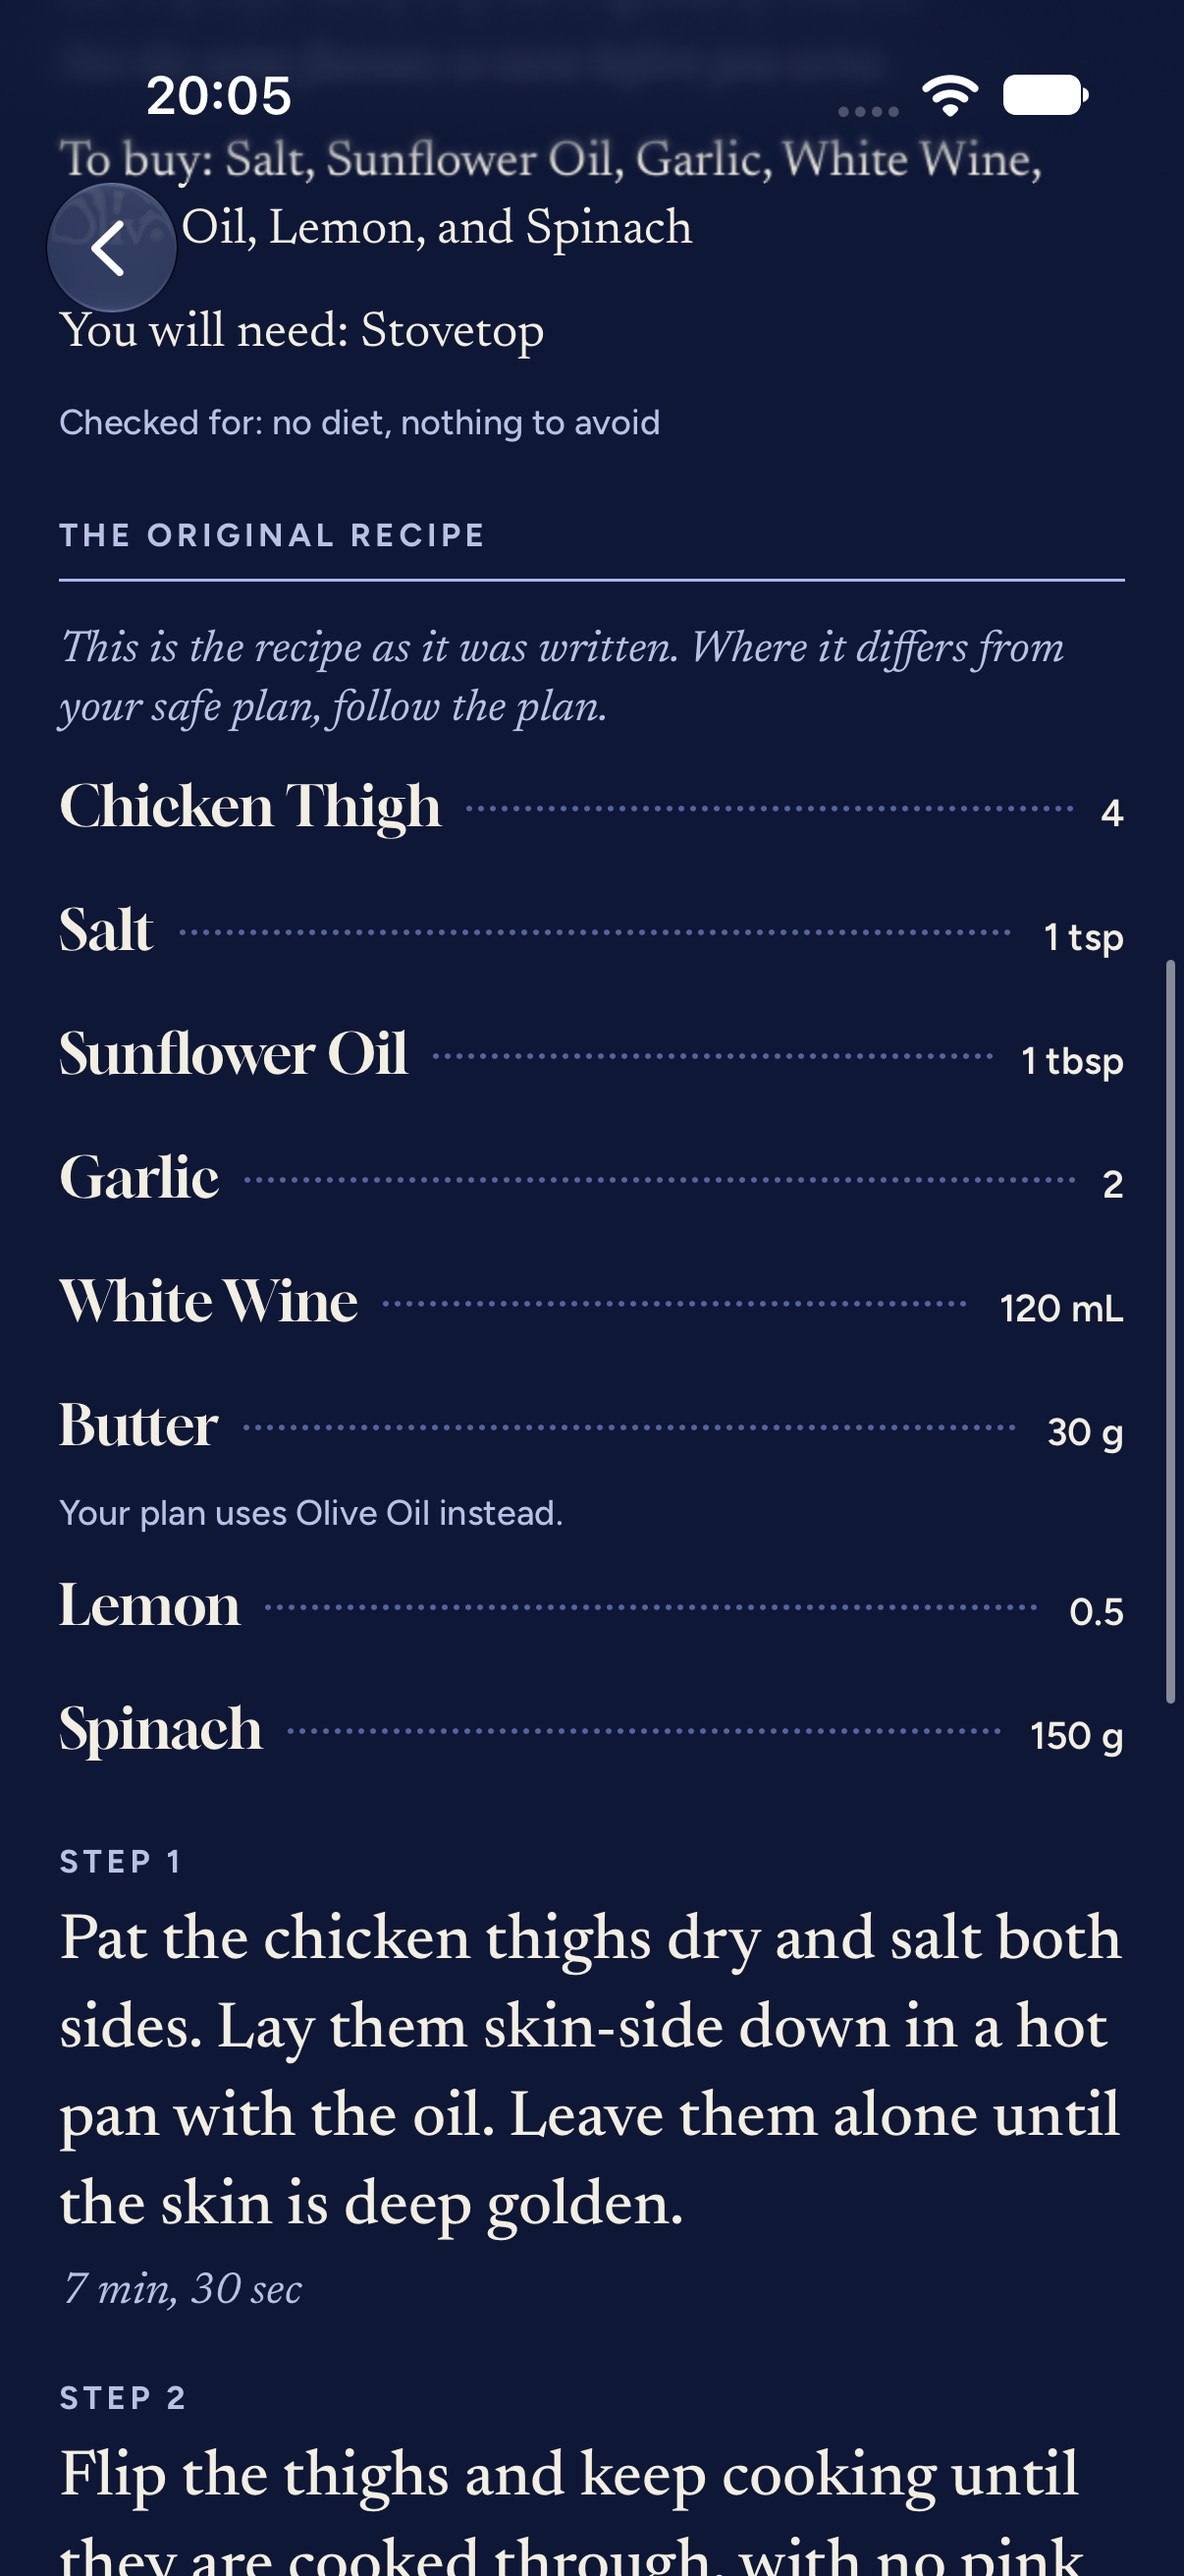
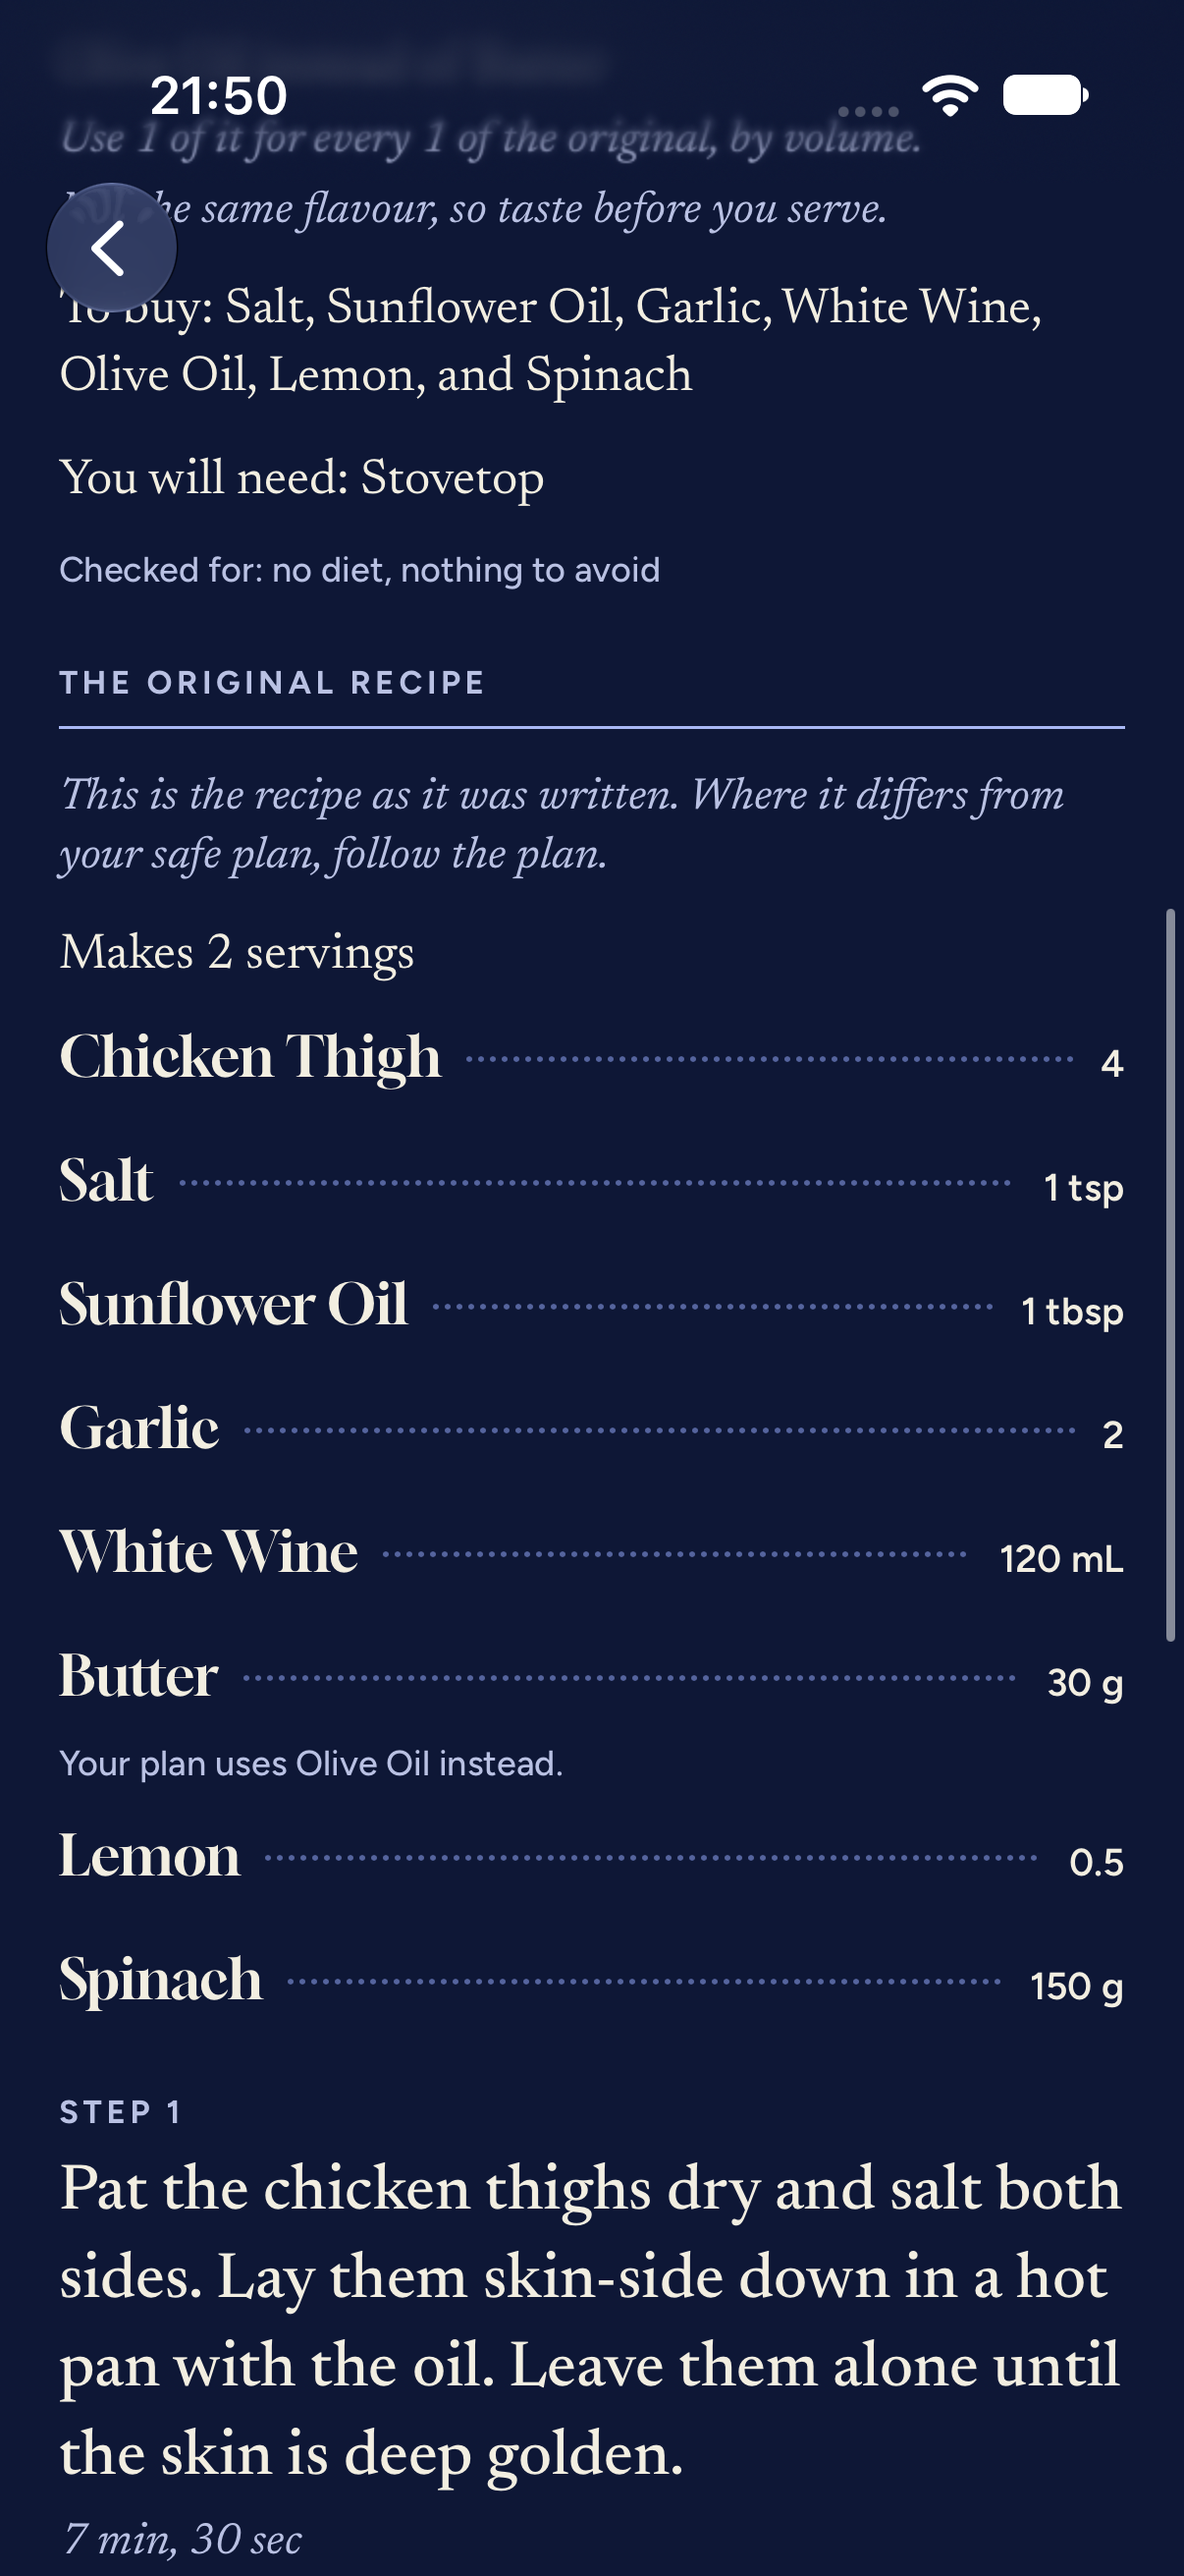
Reject malformed recipe fields, key swaps uniquely and show the yield (#135)
A present but malformed amount, step time or yield now makes the offer
unreadable so it is dropped. Substitution rows are keyed by the removed
and added pair, so two swaps for one stand-in both show. The original
recipe states how much it makes.

diff --git a/Packages/TomiCore/Tests/TomiCoreTests/Server/OfferMalformedTests.swift b/Packages/TomiCore/Tests/TomiCoreTests/Server/OfferMalformedTests.swift
@@ -1,0 +1,54 @@
+import Foundation
+import Testing
+
+@testable import TomiCore
+
+/// Only an absent field or an explicit null may be nil. A value that is there but wrong makes the offer unreadable.
+@Suite struct OfferMalformedTests {
+    func offer(replacing old: String, with new: String) -> String {
+        GraphJSON.offer().replacing(old, with: new)
+    }
+
+    @Test(arguments: [
+        (#""amount": {"unit": "piece", "value": 5}"#, #""amount": {"unit": "piece", "value": "five"}"#),
+        (#""amount": {"unit": "piece", "value": 5}"#, #""amount": 5"#),
+        (#"{"from": 4, "to": 6, "unit": "minute"}"#, #"{"from": "four", "to": 6, "unit": "minute"}"#),
+        (#"{"from": 4, "to": 6, "unit": "minute"}"#, #""soon""#),
+        (#""yields": {"unit": "serving", "value": 2}"#, #""yields": "two""#),
+        (#""yields": {"unit": "serving", "value": 2}"#, #""yields": {"unit": "serving"}"#),
+    ])
+    func aPresentButMalformedFieldDropsTheOffer(_ pair: (String, String)) {
+        let broken = offer(replacing: pair.0, with: pair.1)
+        #expect(throws: DecodingError.self) {
+            try ServerJSON.decode(Offer.self, from: broken)
+        }
+    }
+
+    @Test func anExplicitNullIsRead() throws {
+        var text = offer(replacing: #""amount": {"unit": "piece", "value": 5}"#, with: #""amount": null"#)
+        text = text.replacing(#""yields": {"unit": "serving", "value": 2}"#, with: #""yields": null"#)
+        let source = try ServerJSON.decode(Offer.self, from: text).sourceRecipe
+        #expect(source.ingredients.first?.amount == nil)
+        #expect(source.yields == nil)
+    }
+
+    @Test func anAbsentFieldIsRead() throws {
+        let text = offer(replacing: #""yields": {"unit": "serving", "value": 2}, "#, with: "")
+        #expect(try ServerJSON.decode(Offer.self, from: text).sourceRecipe.yields == nil)
+    }
+
+    /// Two ingredients swapped for the same stand-in are two substitutions, each with its own identity.
+    @Test func twoSwapsForTheSameStandInStayTwoSubstitutions() {
+        let oil = NamedOption(id: "ingredient/oil", name: "Oil")
+        let butter = OfferSwap(removed: NamedOption(id: "ingredient/butter", name: "Butter"), added: oil)
+        let cream = OfferSwap(removed: NamedOption(id: "ingredient/cream", name: "Cream"), added: oil)
+        #expect(Set([butter, cream]).count == 2)
+        #expect(butter.id != cream.id)
+    }
+
+    @Test func aServingYieldIsAWholeNumberOfServings() {
+        #expect(SourceAmount(value: 2, unit: "serving").wholeServings == 2)
+        #expect(SourceAmount(value: 1.5, unit: "serving").wholeServings == nil)
+        #expect(SourceAmount(value: 2, unit: "gram").wholeServings == nil)
+    }
+}

diff --git a/Packages/TomiCore/Sources/TomiCore/Server/OfferSwap.swift b/Packages/TomiCore/Sources/TomiCore/Server/OfferSwap.swift
@@ -1,11 +1,16 @@
 /// A swap in an offer's safe plan: one ingredient of the source recipe out, another in.
-public struct OfferSwap: Hashable, Decodable, Sendable {
+public struct OfferSwap: Identifiable, Hashable, Decodable, Sendable {
     public let removed: NamedOption
     public let added: NamedOption
     /// How much of the new ingredient stands in for the old, or nil when the graph gives no ratio.
     public let ratio: SwapRatio?
     /// What the swap changes about the dish, in the cook's language, or nil when it changes nothing worth saying.
     public let caveat: String?
+
+    /// Each substitution is told apart by the ingredient it removes and the one it adds.
+    public var id: String {
+        removed.id.rawValue + ">" + added.id.rawValue
+    }
 
     public init(removed: NamedOption, added: NamedOption, ratio: SwapRatio? = nil, caveat: String? = nil) {
         self.removed = removed

diff --git a/Packages/TomiCore/Sources/TomiCore/Server/SourceAmount+Known.swift b/Packages/TomiCore/Sources/TomiCore/Server/SourceAmount+Known.swift
@@ -2,6 +2,7 @@ extension SourceAmount {
     /// The units the graph counts with that the lesson library does not have.
     enum GraphUnit: String {
         case clove
+        case serving
     }
 
     /// The amount as a lesson amount, or nil when its unit is not one the lesson units name.
@@ -15,6 +16,14 @@ extension SourceAmount {
     /// How many cloves, or nil when the amount is not a whole number of cloves.
     public var wholeCloves: Int? {
         guard GraphUnit(rawValue: unit) == .clove, value.rounded() == value, value > 0 else {
+            return nil
+        }
+        return Int(value)
+    }
+
+    /// How many servings, or nil when the amount is not a whole number of servings.
+    public var wholeServings: Int? {
+        guard GraphUnit(rawValue: unit) == .serving, value.rounded() == value, value > 0 else {
             return nil
         }
         return Int(value)

diff --git a/Tomi/Specials/SourceYieldLine.swift b/Tomi/Specials/SourceYieldLine.swift
@@ -1,0 +1,19 @@
+import SwiftUI
+import TomiCore
+
+/// How much the graph's recipe makes, so its amounts can be read: whole servings, or another amount.
+struct SourceYieldLine: View {
+    let yields: SourceAmount
+
+    var body: some View {
+        if let servings = yields.wholeServings {
+            Text(.offerSourceYieldServings(servings))
+                .textStyle(.body)
+                .accessibilityIdentifier("offer-source-yield")
+        } else if let amount = SourceAmountFormat.text(for: yields) {
+            Text(.offerSourceYieldAmount(amount))
+                .textStyle(.body)
+                .accessibilityIdentifier("offer-source-yield")
+        }
+    }
+}

diff --git a/Packages/TomiCore/Sources/TomiCore/Server/SourceRecipe.swift b/Packages/TomiCore/Sources/TomiCore/Server/SourceRecipe.swift
@@ -13,7 +13,7 @@ public struct SourceRecipe: Hashable, Decodable, Sendable {
         ingredients = try container.decode([SourceLine].self, forKey: .ingredients)
         steps = try container.decode([SourceStep].self, forKey: .steps)
         equipment = try container.decode([OptionID].self, forKey: .equipment)
-        yields = try? container.decodeIfPresent(SourceAmount.self, forKey: .yields)
+        yields = try container.decodeIfPresent(SourceAmount.self, forKey: .yields)
     }
 
     enum CodingKeys: String, CodingKey {

diff --git a/Tomi/Specials/SourceRecipeSection.swift b/Tomi/Specials/SourceRecipeSection.swift
@@ -7,9 +7,7 @@ struct SourceRecipeSection: View {
 
     var body: some View {
         VStack(alignment: .leading, spacing: Spacing.small) {
-            SectionHeading(words: .offerSourceTitle)
-            Text(.offerSourceNote)
-                .textStyle(.description)
+            SourceRecipeHeader(recipe: offer.sourceRecipe)
             ForEach(Array(offer.sourceRecipe.ingredients.enumerated()), id: \.offset) { _, line in
                 SourceLineRow(offer: offer, line: line)
             }

diff --git a/Packages/TomiCore/Sources/TomiCore/Server/SourceLine.swift b/Packages/TomiCore/Sources/TomiCore/Server/SourceLine.swift
@@ -9,7 +9,7 @@ public struct SourceLine: Hashable, Decodable, Sendable {
         let container = try decoder.container(keyedBy: CodingKeys.self)
         thing = try container.decode(OptionID.self, forKey: .thing)
         part = try container.decode(String.self, forKey: .part)
-        amount = try? container.decodeIfPresent(SourceAmount.self, forKey: .amount)
+        amount = try container.decodeIfPresent(SourceAmount.self, forKey: .amount)
     }
 
     enum CodingKeys: String, CodingKey {

diff --git a/Packages/TomiCore/Sources/TomiCore/Server/SourceStep.swift b/Packages/TomiCore/Sources/TomiCore/Server/SourceStep.swift
@@ -7,7 +7,7 @@ public struct SourceStep: Hashable, Decodable, Sendable {
     public init(from decoder: any Decoder) throws {
         let container = try decoder.container(keyedBy: CodingKeys.self)
         text = try container.decode(String.self, forKey: .text)
-        time = try? container.decodeIfPresent(SourceTime.self, forKey: .time)
+        time = try container.decodeIfPresent(SourceTime.self, forKey: .time)
     }
 
     enum CodingKeys: String, CodingKey {

diff --git a/Tomi/Specials/SourceRecipeHeader.swift b/Tomi/Specials/SourceRecipeHeader.swift
@@ -1,0 +1,16 @@
+import SwiftUI
+import TomiCore
+
+/// The heading of the original recipe, the note that it is as written, and how much it makes.
+struct SourceRecipeHeader: View {
+    let recipe: SourceRecipe
+
+    var body: some View {
+        SectionHeading(words: .offerSourceTitle)
+        Text(.offerSourceNote)
+            .textStyle(.description)
+        if let yields = recipe.yields {
+            SourceYieldLine(yields: yields)
+        }
+    }
+}

diff --git a/TomiUITests/SpecialsUITests.swift b/TomiUITests/SpecialsUITests.swift
@@ -26,6 +26,7 @@ final class SpecialsUITests: XCTestCase {
         XCTAssertTrue(app.element("offer-plan").waitForExistence(timeout: 5))
         app.swipeUp()
         XCTAssertTrue(app.element("offer-source").waitForExistence(timeout: 5))
+        XCTAssertTrue(app.element("offer-source-yield").waitForExistence(timeout: 5))
         scrollToFirstStep(app)
     }
 

diff --git a/Tomi/Specials/OfferSummary.swift b/Tomi/Specials/OfferSummary.swift
@@ -8,7 +8,7 @@ struct OfferSummary: View {
     let options: LibraryOptions
 
     var body: some View {
-        ForEach(offer.safePlan.substitutions, id: \.added.id) { swap in
+        ForEach(offer.safePlan.substitutions, id: \.id) { swap in
             Text(.offerSwap(swap.added.name, swap.removed.name))
                 .textStyle(.description)
         }

diff --git a/Tomi/Specials/SafePlanChanges.swift b/Tomi/Specials/SafePlanChanges.swift
@@ -6,7 +6,7 @@ struct SafePlanChanges: View {
     let offer: Offer
 
     var body: some View {
-        ForEach(offer.safePlan.substitutions, id: \.added.id) { swap in
+        ForEach(offer.safePlan.substitutions, id: \.id) { swap in
             SafePlanSwapRow(swap: swap)
         }
         OfferOmittedLine(offer: offer, style: .body)
